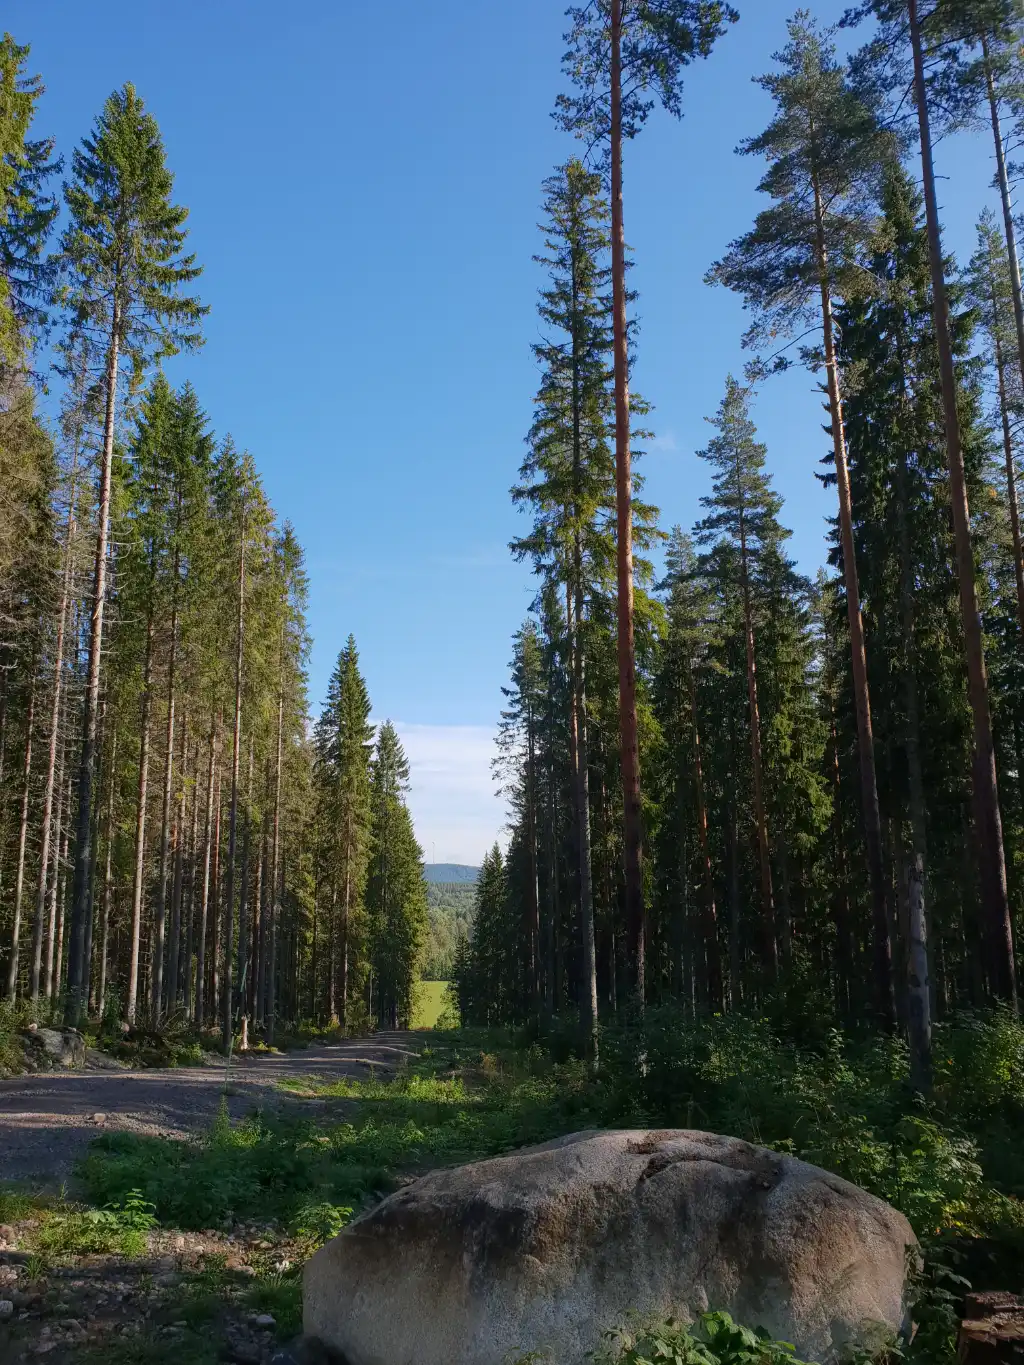
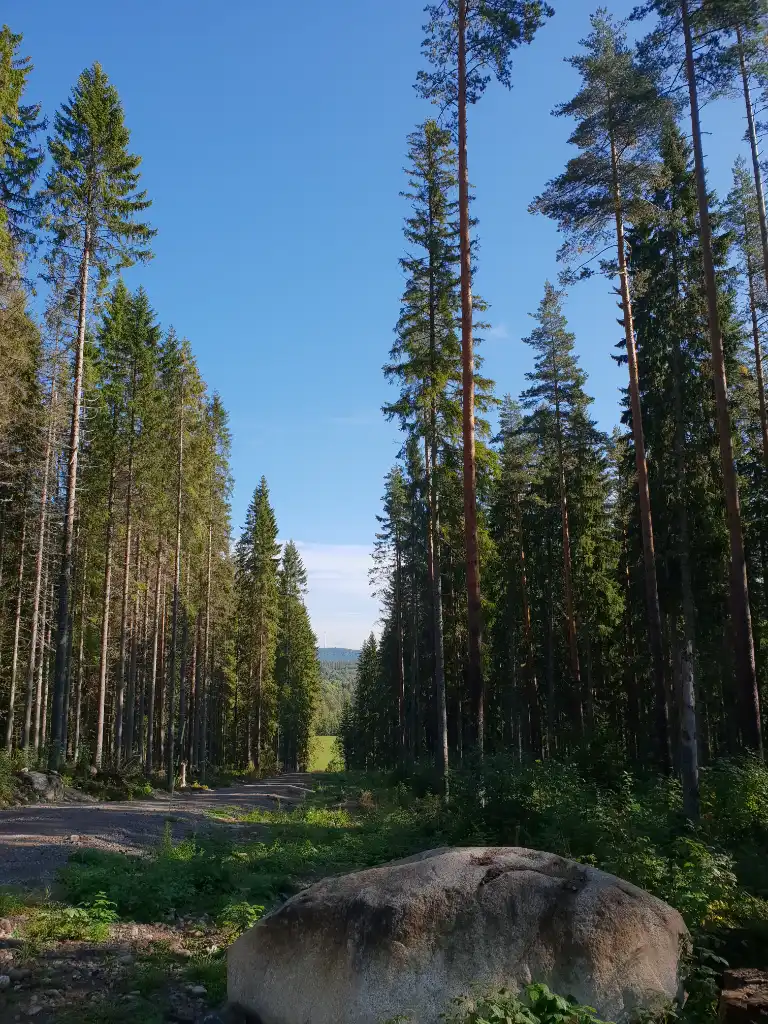
Reduce image size

diff --git a/README.md b/README.md
@@ -1,12 +1,15 @@
 # Visit Järbo
 
+
 ## Introduction
 
 Visit Järbo is a site that shall provide information to travellers about what to expect when coming to this small town. Its vicinity to Kungsberget, which is a small but known ski resort relatively close to Stockholm makes Järbo an ideal place to stay when a traveller does not want to stay in the overcrowded area of Kungsberget. Järbos surroundings make it an ideal place to stay when you want to take a rest from your hectic everyday life. Visitors can go on hiking or bicycle tours without meeting other people, if they want so.
 
 I am living in the area and I feel that this little town needs to have its own website in English to show potential visitors what a beautiful place this is and things you can do and places to visit when you come here.
 
+
 ### Features
+
 
 The site consists of five pages.
 
@@ -15,29 +18,36 @@ The site consists of five pages.
 The index.html/Home page is the starting point for users. It shall provide a short overview of what Järbo has to offer and the hero image represents forest, water, sun and blue sky - the ideal place to make a break. There are no people in the picture which shows how peaceful it is. 
 The bear image gives a hint of the exciting things that you will find when you continue on the website.
 
+
 #### Navigation
 The navigation bar on top of the page is featured with the same look on all five pages. The menu is fully responsive and it's easy to navigate for the user as the active tab is easy recognisable by changed colour and underline.
 Links are available to all pages: Home, Nature, Activities, Gallery, Contact us. The Visit Järbo text is linked to the Start page. 
+
 
 #### Nature
 
 The hero image on the Nature page shows a peaceful, quiet lake. It invites the user to relax and take a deep breath. 
 The text describes in short what the user can expect being outdoor in the area. 
 
+
 #### Activities
 
 The hero image on the activities page shows a trail in the forest. It can be used for hiking or bicycling and you can find further activities that are possible to do in the area. There are also links to external information pages and service providers which open in a new tab. 
+
 
 #### Gallery
 The gallery page shows pictures of the area as well as wild animals that the user might be able to see while strolling through the forest. 
 The images include alt-tags to provide respective information if screen readers are used. 
 
+
 #### Contact us
 The contact us page image shows a bear that shall provide the feeling of exciting things to happen when filling in the contact form. 
 The input text will be displayed in green color and the send and reset buttons will change color when the mouse hovers over. 
 
+
 #### Social Media Links
 The footer area contains links to Facebook, X (Twitter), and Instagram. As I use icons the images include alt-tags to provide respective information if screen readers are used. All links open in a new tab and change color on mouse over. 
+
 
 ### Features left to implement
 As users might want to receive information about more than one topic I originally used checkboxes for the Contact us page. However, after som trials and Google research I found out that this requires Javascript which was not part of course so far.
@@ -46,12 +56,16 @@ If there is interest from local service providers, more and detailed information
 
 ## Testing
 
+
 ### Validator Testing
+
 #### HTML
 No errors were returned when passing through the [W3C Markup validator](https://validator.w3.org/).
 
+
 #### CSS
 No errors were found when passing through the [W3C CSS Validator](https://jigsaw.w3.org/css-validator/) validator
+
 
 ## Browser Testing
 Functionality, links, layout and responsiveness was tested with following browsers without any issues:
@@ -59,6 +73,7 @@ Functionality, links, layout and responsiveness was tested with following browse
 - Firefox Version 118.0.1
 - Brave Version 1.58.135
 - Google Chrome Version 116.0.5845.188
+  
 
 ## Device Testing
 Functionality, links, layout and responsiveness was tested on the following devices without any issues:
@@ -68,7 +83,8 @@ Functionality, links, layout and responsiveness was tested on the following devi
 - Samsung Galaxy 22S Ultra
 - iPhone 8 
 
-Findings under testing
+
+#### Findings under testing
 
 - While input-text:hover border colour looked correct on Google Chrome and Edge I noticed a blue border on Mozilla. I realized that some default border style needs to be the reason and found the solution on the [Mozilla MDN Website](https://developer.mozilla.org/en-US/).
 
@@ -76,7 +92,9 @@ Findings under testing
 ## Deployment
 to be continued
 
+
 ## Credits
+
 ### Content
 Idea, content and text are developed by myselft.
 Inspiration for layout was taken from the walkthrough project "Love Running" and default SharePoint page layouts.
